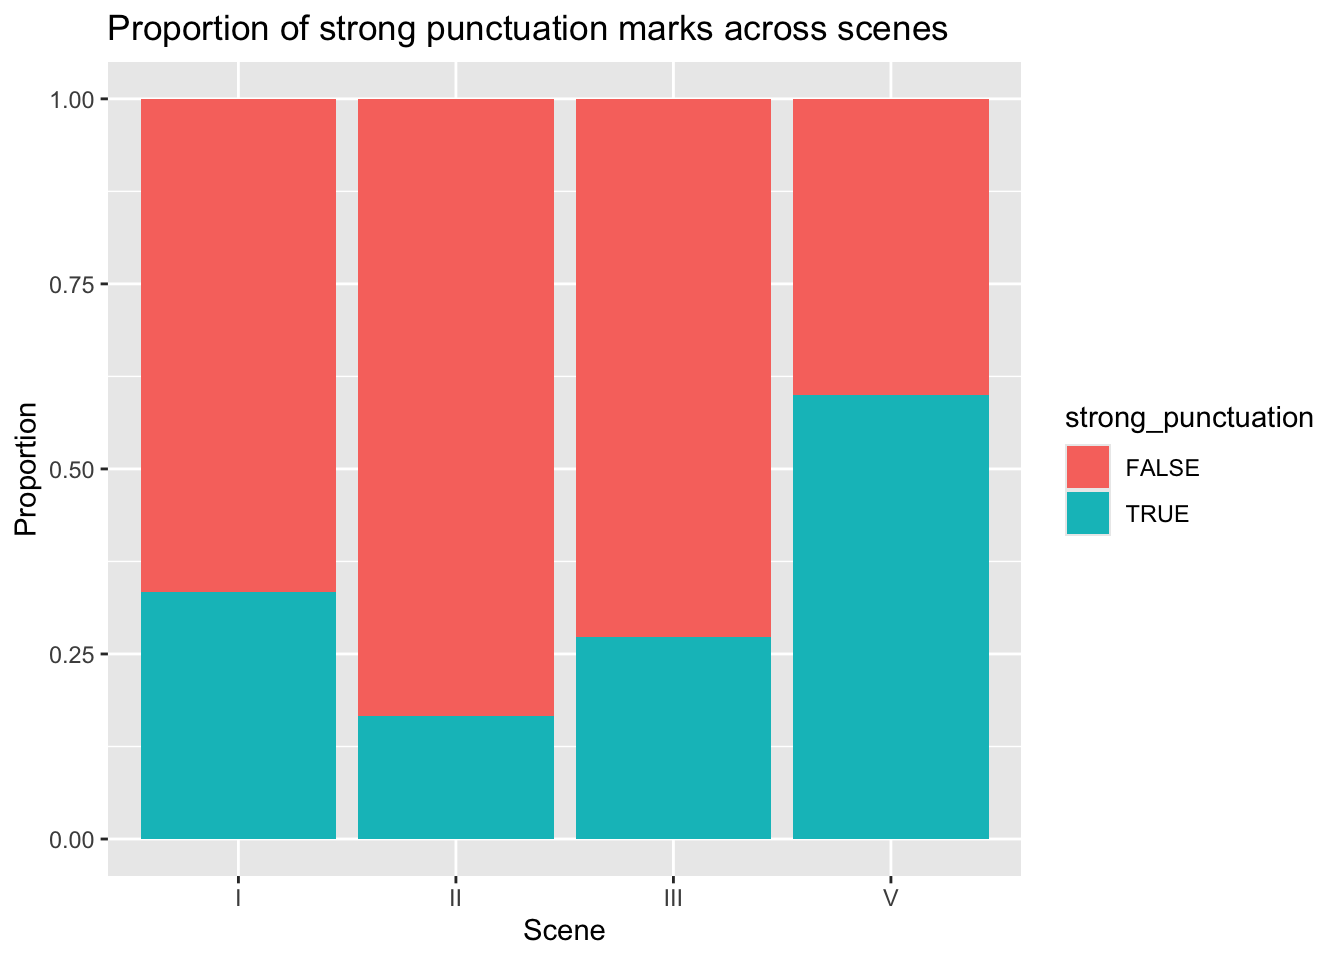
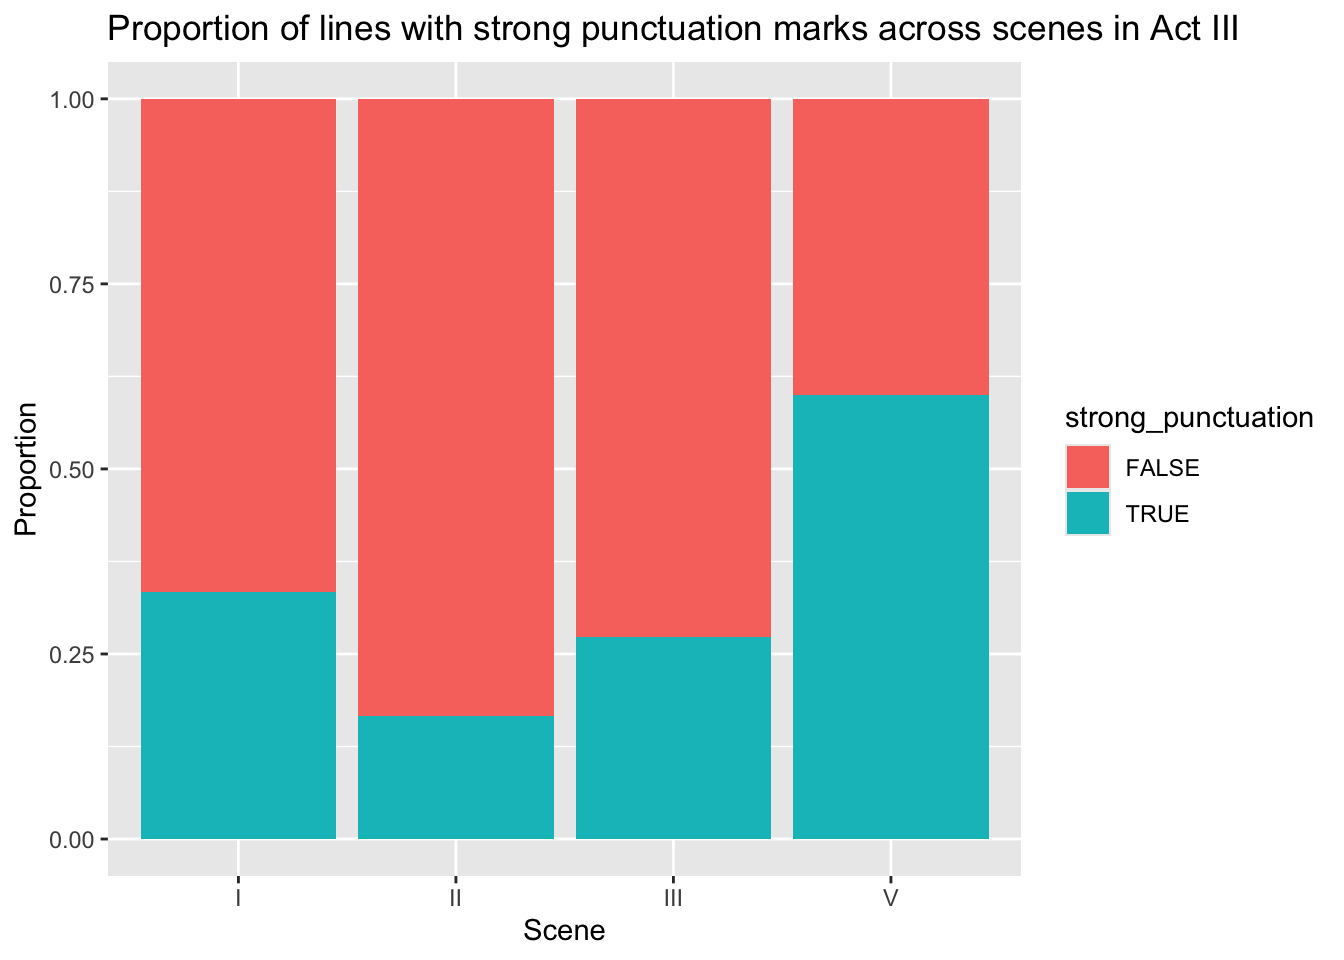
adding fig alt to plots

Changed region(s): [[0.2188, 0.0, 0.9375, 0.0625]]

diff --git a/docs/shake.html b/docs/shake.html
@@ -247,7 +247,7 @@ pre > code.sourceCode > span > a:first-child::before { text-decoration: underlin
 <div class="cell-output-display">
 <div>
 <figure class="figure">
-<p><img src="shake_files/figure-html/unnamed-chunk-2-1.png" class="img-fluid figure-img" width="672"></p>
+<p><img src="shake_files/figure-html/unnamed-chunk-2-1.png" class="img-fluid figure-img" alt="Bar plot of which character mentions death the most, character on the x-axis and count on the y axis. Romeo has the most mentions of the word 'death' (with just below 20) and Friar Lawrence has the second most mentions of death (just below 15), the next is Juliet, then the rest of the characters are much lower and similar in terms of mentions of death" width="672"></p>
 </figure>
 </div>
 </div>
@@ -264,7 +264,7 @@ pre > code.sourceCode > span > a:first-child::before { text-decoration: underlin
 <div class="cell-output-display">
 <div>
 <figure class="figure">
-<p><img src="shake_files/figure-html/unnamed-chunk-3-1.png" class="img-fluid figure-img" width="672"></p>
+<p><img src="shake_files/figure-html/unnamed-chunk-3-1.png" class="img-fluid figure-img" alt="Bar plot of which act has the most mentions of death with Act number on the x-axis and count on the y-axis. Act 3 (25 mentions) has the most mentions of death, next act 5 then 4,2 then 1." width="672"></p>
 </figure>
 </div>
 </div>
@@ -283,11 +283,11 @@ pre > code.sourceCode > span > a:first-child::before { text-decoration: underlin
 <span id="cb4-6"><a href="#cb4-6" aria-hidden="true" tabindex="-1"></a></span>
 <span id="cb4-7"><a href="#cb4-7" aria-hidden="true" tabindex="-1"></a><span class="fu">ggplot</span>(filtered_act_num, <span class="fu">aes</span>(<span class="at">x =</span> scene, <span class="at">fill =</span> strong_punctuation))<span class="sc">+</span></span>
 <span id="cb4-8"><a href="#cb4-8" aria-hidden="true" tabindex="-1"></a>  <span class="fu">geom_bar</span>(<span class="at">position =</span> <span class="st">"fill"</span>) <span class="sc">+</span> </span>
-<span id="cb4-9"><a href="#cb4-9" aria-hidden="true" tabindex="-1"></a>  <span class="fu">labs</span>(<span class="at">title =</span> <span class="st">"Proportion of strong punctuation marks across scenes"</span>, <span class="at">x =</span> <span class="st">"Scene"</span>, <span class="at">y =</span> <span class="st">"Proportion"</span>)</span></code><button title="Copy to Clipboard" class="code-copy-button"><i class="bi"></i></button></pre></div>
+<span id="cb4-9"><a href="#cb4-9" aria-hidden="true" tabindex="-1"></a>  <span class="fu">labs</span>(<span class="at">title =</span> <span class="st">"Proportion of lines with strong punctuation marks across scenes in Act III"</span>, <span class="at">x =</span> <span class="st">"Scene"</span>, <span class="at">y =</span> <span class="st">"Proportion"</span>)</span></code><button title="Copy to Clipboard" class="code-copy-button"><i class="bi"></i></button></pre></div>
 <div class="cell-output-display">
 <div>
 <figure class="figure">
-<p><img src="shake_files/figure-html/unnamed-chunk-4-1.png" class="img-fluid figure-img" width="672"></p>
+<p><img src="shake_files/figure-html/unnamed-chunk-4-1.png" class="img-fluid figure-img" alt="Proportion bar plot of proportion of lines in Romeo and Juliet with strong punctuation marks across scenes in Act III. With scene on the x-axis and proportion on the y-axis. We can see that scene 5 has the highest proportion of strong punctuation marks in lines with approximately 66%, next is scene 1 with approximately 30% and the lowets is scene 2 with just above 15%" width="672"></p>
 </figure>
 </div>
 </div>
@@ -303,7 +303,7 @@ pre > code.sourceCode > span > a:first-child::before { text-decoration: underlin
 <div class="cell-output-display">
 <div>
 <figure class="figure">
-<p><img src="shake_files/figure-html/unnamed-chunk-5-1.png" class="img-fluid figure-img" width="672"></p>
+<p><img src="shake_files/figure-html/unnamed-chunk-5-1.png" class="img-fluid figure-img" alt="Bar plot of mentions of death across scenes in Act III. With scene on the x-axis and count on the y-axis. Shows that scene 3 in act 3 has the most mentions of death with 11" width="672"></p>
 </figure>
 </div>
 </div>
@@ -312,7 +312,7 @@ pre > code.sourceCode > span > a:first-child::before { text-decoration: underlin
 <div class="cell">
 <div class="sourceCode cell-code" id="cb6"><pre class="sourceCode r code-with-copy"><code class="sourceCode r"><span id="cb6-1"><a href="#cb6-1" aria-hidden="true" tabindex="-1"></a>filtered_act_num <span class="ot">&lt;-</span> act_num <span class="sc">|&gt;</span></span>
 <span id="cb6-2"><a href="#cb6-2" aria-hidden="true" tabindex="-1"></a>  <span class="fu">filter</span>(act <span class="sc">==</span> <span class="st">"III"</span>)<span class="sc">|&gt;</span></span>
-<span id="cb6-3"><a href="#cb6-3" aria-hidden="true" tabindex="-1"></a>  <span class="fu">mutate</span>(<span class="at">word_after_death =</span> <span class="fu">str_extract</span>(dialogue, <span class="st">"death</span><span class="sc">\\</span><span class="st">s*</span><span class="sc">\\</span><span class="st">S+"</span>)) <span class="co">#extracting moments when there is a word/character after death using spaces</span></span>
+<span id="cb6-3"><a href="#cb6-3" aria-hidden="true" tabindex="-1"></a>  <span class="fu">mutate</span>(<span class="at">word_after_death =</span> <span class="fu">str_extract</span>(dialogue, <span class="st">"death</span><span class="sc">\\</span><span class="st">s*</span><span class="sc">\\</span><span class="st">S+"</span>))  <span class="co">#extracting moments when there is a word/character after death using spaces</span></span>
 <span id="cb6-4"><a href="#cb6-4" aria-hidden="true" tabindex="-1"></a></span>
 <span id="cb6-5"><a href="#cb6-5" aria-hidden="true" tabindex="-1"></a><span class="fu">ggplot</span>(filtered_act_num, <span class="fu">aes</span>(<span class="at">x =</span> word_after_death))<span class="sc">+</span></span>
 <span id="cb6-6"><a href="#cb6-6" aria-hidden="true" tabindex="-1"></a>  <span class="fu">geom_bar</span>(<span class="at">stat =</span> <span class="st">"count"</span>)<span class="sc">+</span></span>
@@ -323,7 +323,7 @@ pre > code.sourceCode > span > a:first-child::before { text-decoration: underlin
 <div class="cell-output-display">
 <div>
 <figure class="figure">
-<p><img src="shake_files/figure-html/unnamed-chunk-6-1.png" class="img-fluid figure-img" width="672"></p>
+<p><img src="shake_files/figure-html/unnamed-chunk-6-1.png" class="img-fluid figure-img" alt="Bar plot that shows the word/character after death in Act III, on the x-axis it is death and the word or character after death and count on the y-axis. The most common combination was 'death,'" width="672"></p>
 </figure>
 </div>
 </div>
@@ -365,7 +365,7 @@ pre > code.sourceCode > span > a:first-child::before { text-decoration: underlin
 <div class="cell-output-display">
 <div>
 <figure class="figure">
-<p><img src="shake_files/figure-html/unnamed-chunk-8-1.png" class="img-fluid figure-img" width="672"></p>
+<p><img src="shake_files/figure-html/unnamed-chunk-8-1.png" class="img-fluid figure-img" alt="This is a bar plot of which characters mention the Capulet family. The x-axis is the characterse while the y-axis is the count. We can see that Romeo and Benvolio mention the Capulet family the most, next Prince, and then the rest of the characters mention it the same amount (once)" width="672"></p>
 </figure>
 </div>
 </div>
@@ -383,7 +383,7 @@ pre > code.sourceCode > span > a:first-child::before { text-decoration: underlin
 <div class="cell-output-display">
 <div>
 <figure class="figure">
-<p><img src="shake_files/figure-html/unnamed-chunk-8-2.png" class="img-fluid figure-img" width="672"></p>
+<p><img src="shake_files/figure-html/unnamed-chunk-8-2.png" class="img-fluid figure-img" alt="This is a bar plot of which characters mention the Capulet family. The x-axis is the characterse while the y-axis is the count. We can see that Romeo and Benvolio mention the Capulet family the most, next Prince, and then the rest of the characters mention it the same amount (once)" width="672"></p>
 </figure>
 </div>
 </div>

diff --git a/docs/epl.html b/docs/epl.html
@@ -158,7 +158,7 @@ pre > code.sourceCode > span > a:first-child::before { text-decoration: underlin
   </li>
   <li class="nav-item">
     <a class="nav-link" href="./slideshow.html"> 
-<span class="menu-text">Overview of DS002 Projects</span></a>
+<span class="menu-text">Overview of DS002 Project 2</span></a>
   </li>  
 </ul>
           </div> <!-- /navcollapse -->
@@ -286,7 +286,7 @@ pre > code.sourceCode > span > a:first-child::before { text-decoration: underlin
 <div class="cell-output-display">
 <div>
 <figure class="figure">
-<p><img src="epl_files/figure-html/unnamed-chunk-4-1.png" class="img-fluid figure-img" width="672"></p>
+<p><img src="epl_files/figure-html/unnamed-chunk-4-1.png" class="img-fluid figure-img" alt="Bar plot of Goals Scored by Home Teams in the EPL for the 2020-2021 season, with months of the season from August to May on the x-axis and GOals by home team on the y-axis. This shows that the most goals scored by home teams was in December, next May and then April" width="672"></p>
 </figure>
 </div>
 </div>

diff --git a/docs/londonmarathon.html b/docs/londonmarathon.html
@@ -158,7 +158,7 @@ pre > code.sourceCode > span > a:first-child::before { text-decoration: underlin
   </li>
   <li class="nav-item">
     <a class="nav-link" href="./slideshow.html"> 
-<span class="menu-text">Overview of DS002 Projects</span></a>
+<span class="menu-text">Overview of DS002 Project 2</span></a>
   </li>  
 </ul>
           </div> <!-- /navcollapse -->
@@ -232,7 +232,7 @@ pre > code.sourceCode > span > a:first-child::before { text-decoration: underlin
 <div class="cell-output-display">
 <div>
 <figure class="figure">
-<p><img src="londonmarathon_files/figure-html/unnamed-chunk-2-1.png" class="img-fluid figure-img" width="672"></p>
+<p><img src="londonmarathon_files/figure-html/unnamed-chunk-2-1.png" class="img-fluid figure-img" alt="Graph of Number of Accepted Runners to the London Marathon vs Year from 1980 to 2020 London marathons on the x-axis" width="672"></p>
 </figure>
 </div>
 </div>

diff --git a/docs/simstudy.html b/docs/simstudy.html
@@ -158,7 +158,7 @@ pre > code.sourceCode > span > a:first-child::before { text-decoration: underlin
   </li>
   <li class="nav-item">
     <a class="nav-link" href="./slideshow.html"> 
-<span class="menu-text">Overview of DS002 Projects</span></a>
+<span class="menu-text">Overview of DS002 Project 2</span></a>
   </li>  
 </ul>
           </div> <!-- /navcollapse -->

diff --git a/docs/sqlproject.html b/docs/sqlproject.html
@@ -158,7 +158,7 @@ pre > code.sourceCode > span > a:first-child::before { text-decoration: underlin
   </li>
   <li class="nav-item">
     <a class="nav-link" href="./slideshow.html"> 
-<span class="menu-text">Overview of DS002 Projects</span></a>
+<span class="menu-text">Overview of DS002 Project 2</span></a>
   </li>  
 </ul>
           </div> <!-- /navcollapse -->
